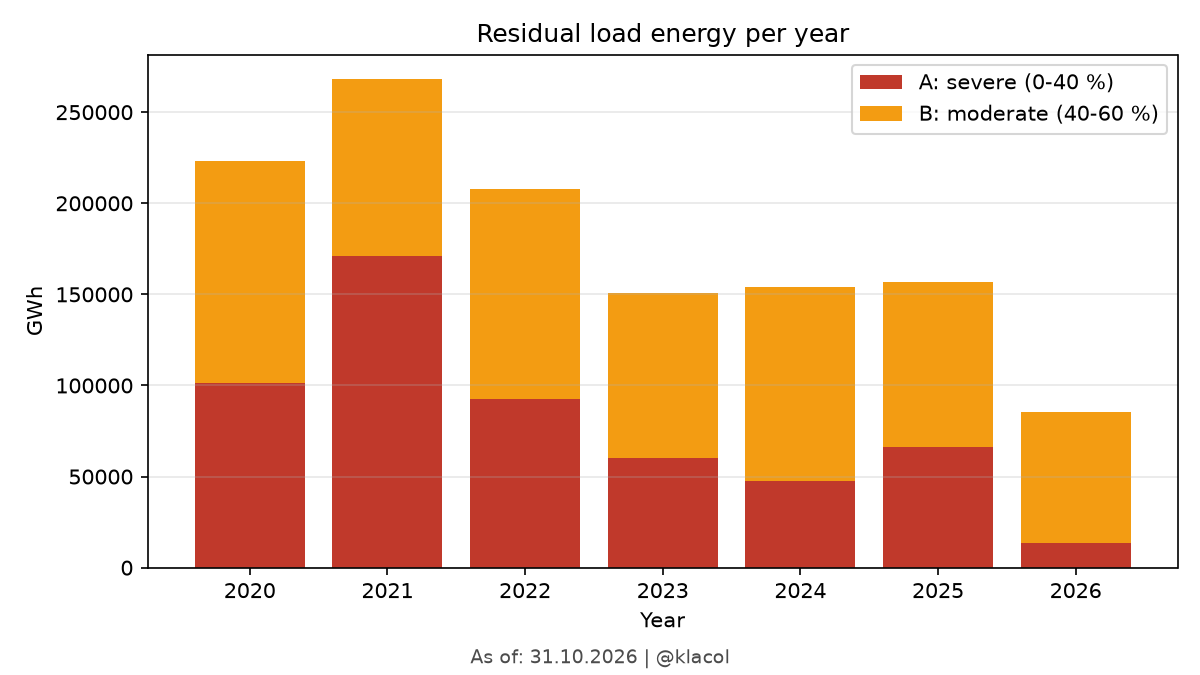
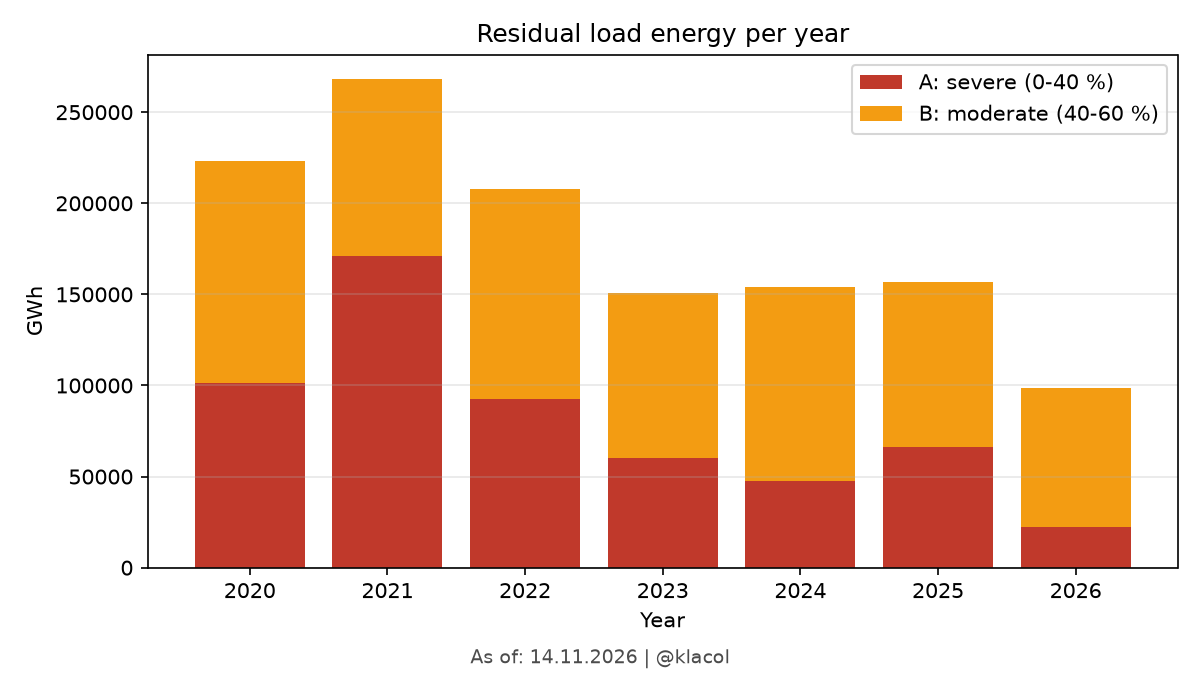
Biggest Dunkelflaute of the year added

Changed region(s): [[0.8325, 0.56, 0.9558, 0.6222], [0.8325, 0.7778, 0.9558, 0.8089], [0.4317, 0.9644, 0.4933, 0.9956]]

diff --git a/README.md b/README.md
@@ -128,20 +128,22 @@ Energy-Charts revises historical values).
 
 ## Yearly summary DE
 
-The table below summarizes the number of Dunkelflaute events per calendar year
-for Germany. The category columns are mutually exclusive: `A` covers renewable
-shares from 0 % to below 40 %, while `B` covers 40 % to below 60 %. `Total` is
-the row sum of A and B. 
+The table below summarizes the number of Dunkelflaute events and their total
+duration per calendar year for Germany. `Days A` and `Days B` sum the full
+length of events in each category, including the first, battery-bufferable day;
+they are distinct from critical days. The categories are mutually exclusive:
+`A` covers renewable shares from 0 % to below 40 %, while `B` covers 40 % to
+below 60 %. `Total` is the row sum of A and B event counts.
 
-| Year | Dunkelflauten A (0-40 %) | Dunkelflauten B (40-60 %) | Total Dunkelflauten |
-| --- | :---: | :---: | :---: |
-| 2020 | [24](data/de/2020/dunkelflauten_A.csv) | [44](data/de/2020/dunkelflauten_B.csv) | 68 |
-| 2021 | [38](data/de/2021/dunkelflauten_A.csv) | [34](data/de/2021/dunkelflauten_B.csv) | 72 |
-| 2022 | [19](data/de/2022/dunkelflauten_A.csv) | [35](data/de/2022/dunkelflauten_B.csv) | 54 |
-| 2023 | [17](data/de/2023/dunkelflauten_A.csv) | [31](data/de/2023/dunkelflauten_B.csv) | 48 |
-| 2024 | [11](data/de/2024/dunkelflauten_A.csv) | [41](data/de/2024/dunkelflauten_B.csv) | 52 |
-| 2025 | [16](data/de/2025/dunkelflauten_A.csv) | [37](data/de/2025/dunkelflauten_B.csv) | 53 |
-| 2026* | [6](data/de/2026/dunkelflauten_A.csv) | [29](data/de/2026/dunkelflauten_B.csv) | 35 |
+| Year | Dunkelflauten A (0-40 %) | Days A | Dunkelflauten B (40-60 %) | Days B | Total Dunkelflauten | Total days |
+| --- | :---: | :---: | :---: | :---: | :---: | :---: |
+| 2020 | [24](data/de/2020/dunkelflauten_A.csv) | 90 | [44](data/de/2020/dunkelflauten_B.csv) | 145 | 68 | 235 |
+| 2021 | [38](data/de/2021/dunkelflauten_A.csv) | 149 | [34](data/de/2021/dunkelflauten_B.csv) | 111 | 72 | 260 |
+| 2022 | [19](data/de/2022/dunkelflauten_A.csv) | 84 | [35](data/de/2022/dunkelflauten_B.csv) | 137 | 54 | 221 |
+| 2023 | [17](data/de/2023/dunkelflauten_A.csv) | 55 | [31](data/de/2023/dunkelflauten_B.csv) | 117 | 48 | 172 |
+| 2024 | [11](data/de/2024/dunkelflauten_A.csv) | 42 | [41](data/de/2024/dunkelflauten_B.csv) | 131 | 52 | 173 |
+| 2025 | [16](data/de/2025/dunkelflauten_A.csv) | 57 | [37](data/de/2025/dunkelflauten_B.csv) | 115 | 53 | 172 |
+| 2026* | [7](data/de/2026/dunkelflauten_A.csv) | 20 | [30](data/de/2026/dunkelflauten_B.csv) | 93 | 37 | 113 |
 
 \* 2026 is the current, incomplete year and will change when new Energy-Charts
 data becomes available.
